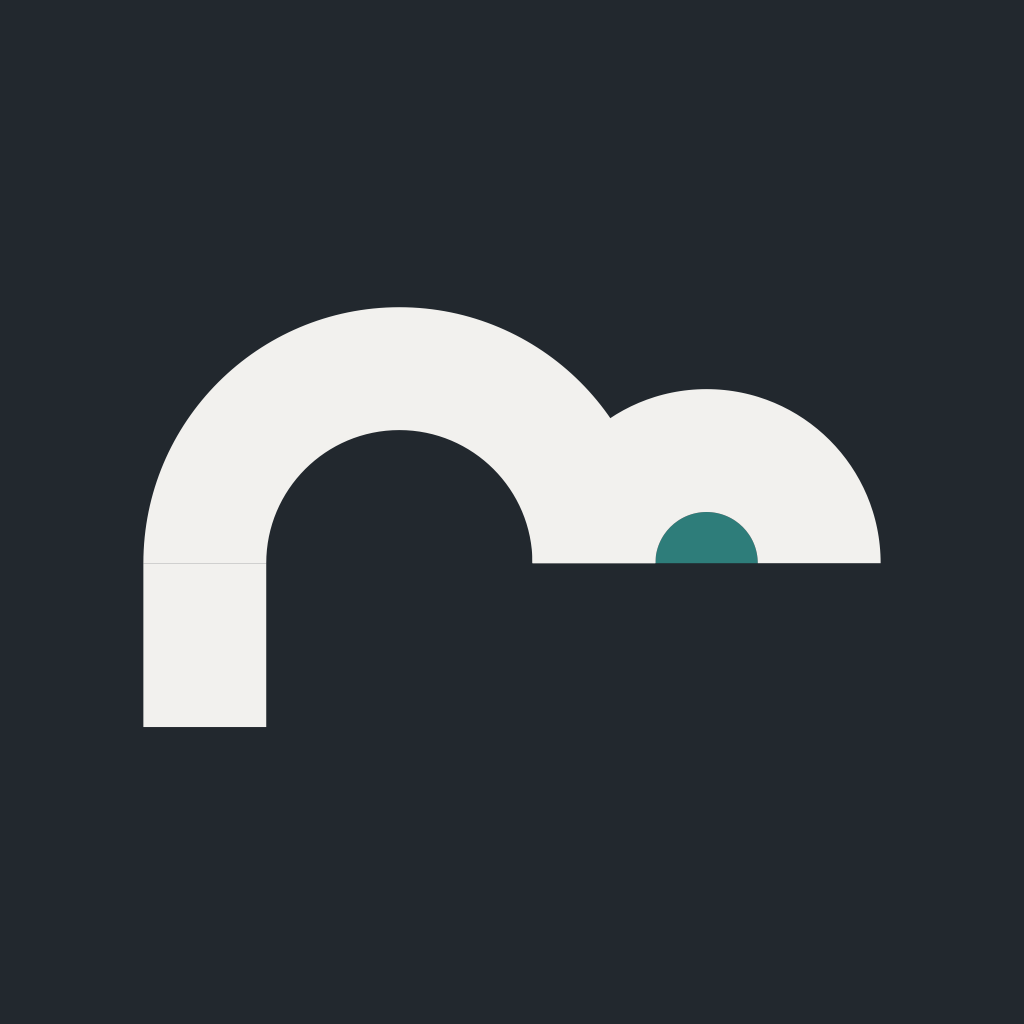
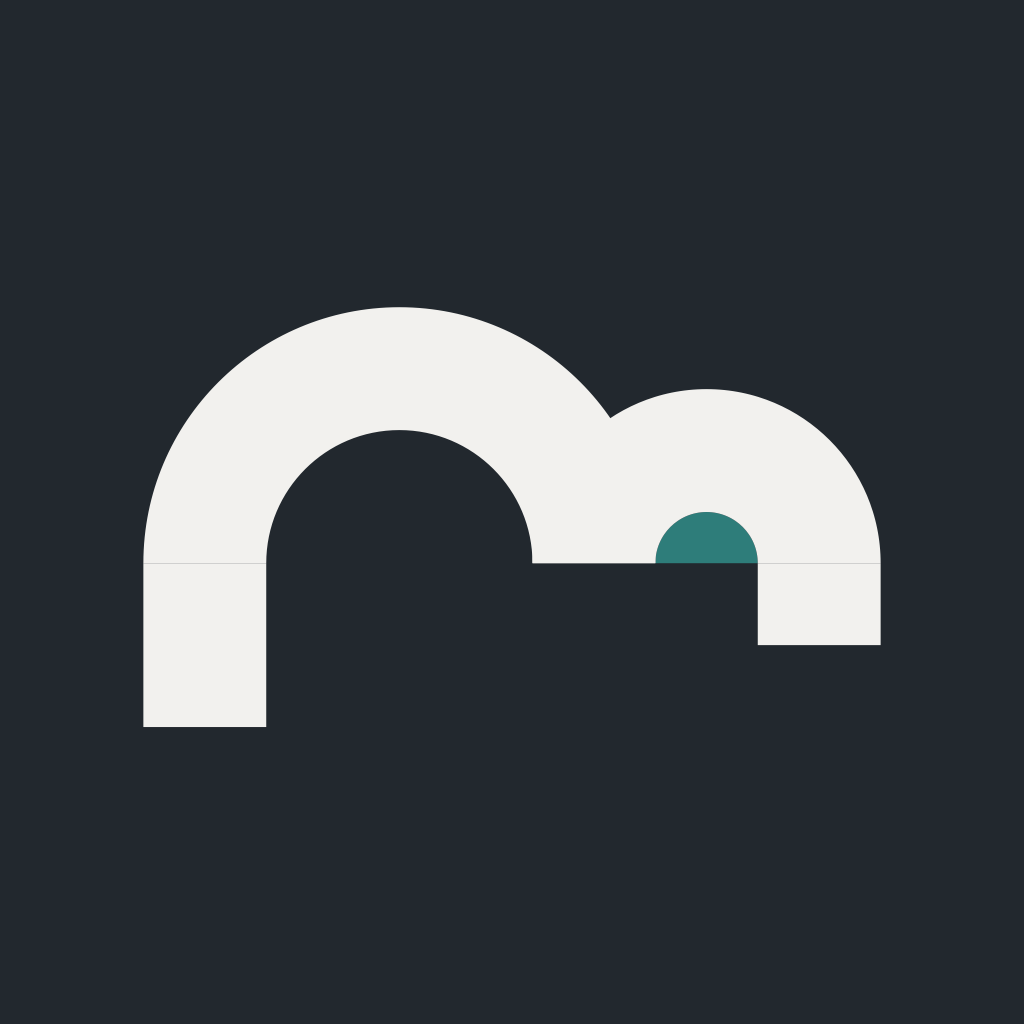
Mobile: second stem on the mark, half the left leg's drop
The mark's right terminal used to stop dead on the baseline, so it read
as two spans on a single post. A stem at x=80 dropping 8 units (half the
left leg's 16) gives the three-stem read of a lowercase m, and the
uneven drop echoes the uneven arches. App icons regenerated to match —
the icon and the in-app lockup are the same drawing.

Changed region(s): [[0.7188, 0.5312, 0.875, 0.6562]]

diff --git a/mobile/components/MalocaLogo.tsx b/mobile/components/MalocaLogo.tsx
@@ -17,9 +17,11 @@ import { colors, fonts } from '../theme';
  * arch is a full ring View clipped to its top half by an overflow:hidden
  * parent (a clean butt-capped semicircle, matching the doc's SVG strokes).
  * Doc geometry, 100-unit viewBox: big arch baseline y=55, x 20-58 (r19);
- * small arch x 58-80 (r11); leg at x=20 down to y=71; strokes 12; teal
- * half-disc x 64-74 (r5). Offsets below are to the mark's tight box
- * (x from 14, y from 30): 72 wide, 25 above the arch baseline, leg 16 below.
+ * small arch x 58-80 (r11); legs at x=20 (down to y=71) and x=80 (down to
+ * y=63, half the drop); strokes 12; teal half-disc x 64-74 (r5). Offsets
+ * below are to the mark's tight box (x from 14, y from 30): 72 wide, 25
+ * above the arch baseline, long leg 16 below. The second leg is this
+ * app's own addition to the doc's 4b drawing.
  *
  * Baseline trick: in the joined lockup the mark's container is exactly the
  * above-baseline 25 units tall and ALL its children are position:absolute
@@ -81,12 +83,22 @@ export function MalocaMark({ height = 41, joined = false }: MarkProps) {
           }}
         />
       </View>
-      {/* Leg — below the arch baseline; in joined mode it simply overflows
-          the container, which is what puts it under the text baseline. */}
+      {/* Legs — below the arch baseline; in joined mode they simply overflow
+          the container, which is what puts them under the text baseline.
+          The right one drops half as far (8 units to the left's 16): that
+          second stem is what makes the mark read as a lowercase m rather
+          than two spans balanced on a single post (Nick, 2026-08-26), and
+          the uneven drop keeps it in step with the uneven arches. */}
       <View
         style={[
           styles.abs,
           { left: 0, top: px(25), width: px(12), height: px(16), backgroundColor: colors.ink },
+        ]}
+      />
+      <View
+        style={[
+          styles.abs,
+          { left: px(60), top: px(25), width: px(12), height: px(8), backgroundColor: colors.ink },
         ]}
       />
     </View>
